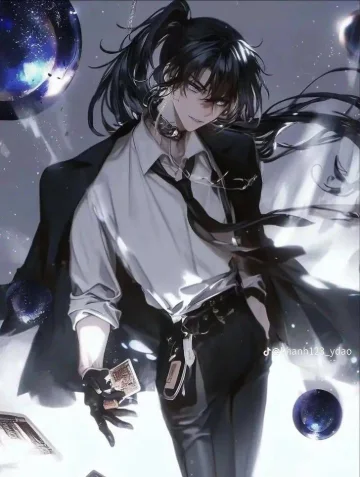
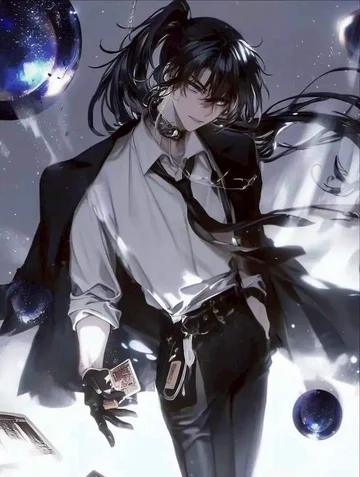
夜明護尊: the watermark-free portrait; gallery stickers warm when the menu opens
- Replace the 夜明護尊 portrait with the owner's watermark-free version and
  regenerate its delivery WebPs (full and 360w); update the qa-perf hash pin.
- Gallery curtain stickers no longer warm on page load: they warm in an idle
  slot the first time the side menu opens (html[data-side-menu-open]), still
  skipped on Save-Data / 2g. Verified on a production build: 0 sticker
  requests before the menu opens, 9 after.

diff --git a/src/lib/gallery-sticker-warmup.ts b/src/lib/gallery-sticker-warmup.ts
@@ -1,9 +1,10 @@
 /* The gallery curtain's stickers must be on the cloth from its first frame.
-   Once a page has loaded and gone idle, fetch and decode all nine at low
-   priority and keep the decoded images referenced, so the curtain's <img>
-   elements paint from memory instead of waiting on the network or a decode.
-   About 290 KB; skipped under Save-Data and on 2G, where the menu link's own
-   warm-up (GuardedLink assets) still runs on intent. */
+   When the reader opens the side menu (the way into the gallery), fetch and
+   decode all nine at low priority and keep the decoded images referenced, so
+   the curtain's <img> elements paint from memory instead of waiting on the
+   network or a decode. About 290 KB, so no page pays for them until the menu
+   opens (owner's choice, 2026-10-11); skipped under Save-Data and on 2G, where
+   the menu link's own warm-up (GuardedLink assets) still runs on intent. */
 
 const held: HTMLImageElement[] = [];
 let started = false;
@@ -22,7 +23,8 @@ export function warmGalleryStickers(sources: readonly string[]) {
   }
 }
 
-/** After load, on idle: warm the stickers. Returns a cleanup. */
+/** When the side menu first opens (html[data-side-menu-open]), warm the
+ * stickers, low priority, in an idle slot. Returns a cleanup. */
 export function scheduleGalleryStickerWarmup(sources: readonly string[]) {
   if (typeof window === "undefined") return () => undefined;
   const connection = (
@@ -31,19 +33,26 @@ export function scheduleGalleryStickerWarmup(sources: readonly string[]) {
   if (connection?.saveData || ["slow-2g", "2g"].includes(connection?.effectiveType ?? "")) {
     return () => undefined;
   }
+  const root = document.documentElement;
   let idle = 0;
   let timer = 0;
   const run = () => {
     if (window.requestIdleCallback) {
-      idle = window.requestIdleCallback(() => warmGalleryStickers(sources), { timeout: 4000 });
+      idle = window.requestIdleCallback(() => warmGalleryStickers(sources), { timeout: 600 });
     } else {
-      timer = window.setTimeout(() => warmGalleryStickers(sources), 1200);
+      timer = window.setTimeout(() => warmGalleryStickers(sources), 120);
     }
   };
-  if (document.readyState === "complete") run();
-  else window.addEventListener("load", run, { once: true });
+  const observer = new MutationObserver(() => {
+    if (root.hasAttribute("data-side-menu-open")) {
+      observer.disconnect();
+      run();
+    }
+  });
+  if (root.hasAttribute("data-side-menu-open")) run();
+  else observer.observe(root, { attributes: true, attributeFilter: ["data-side-menu-open"] });
   return () => {
-    window.removeEventListener("load", run);
+    observer.disconnect();
     if (idle) window.cancelIdleCallback(idle);
     window.clearTimeout(timer);
   };
